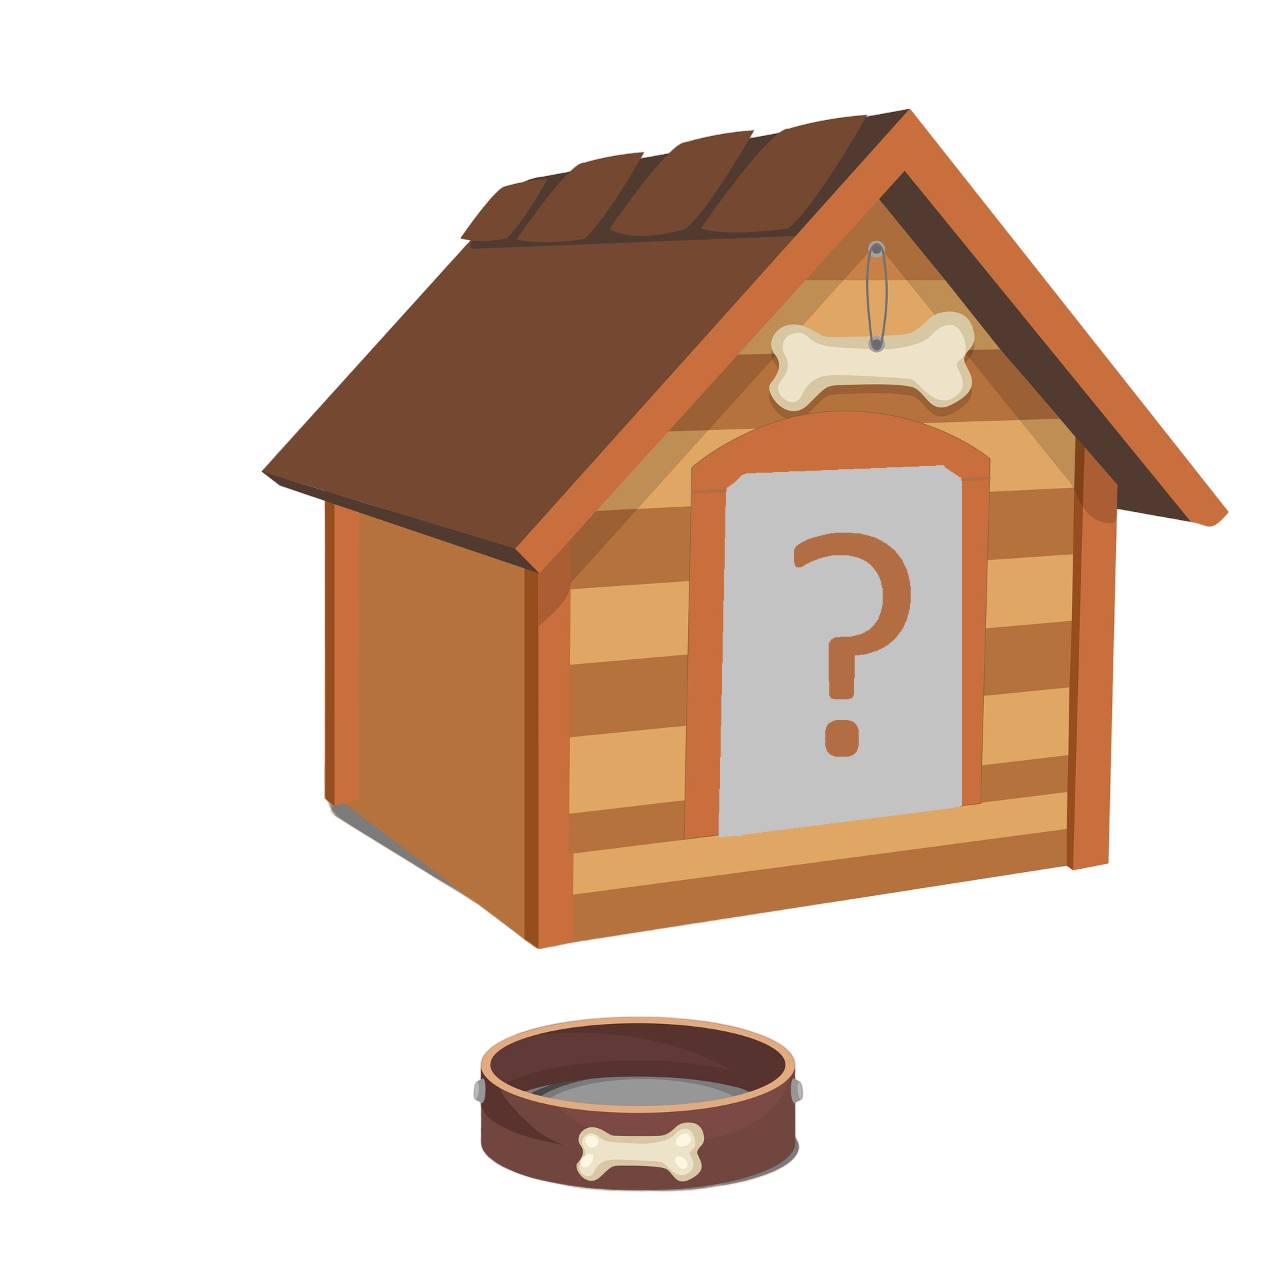
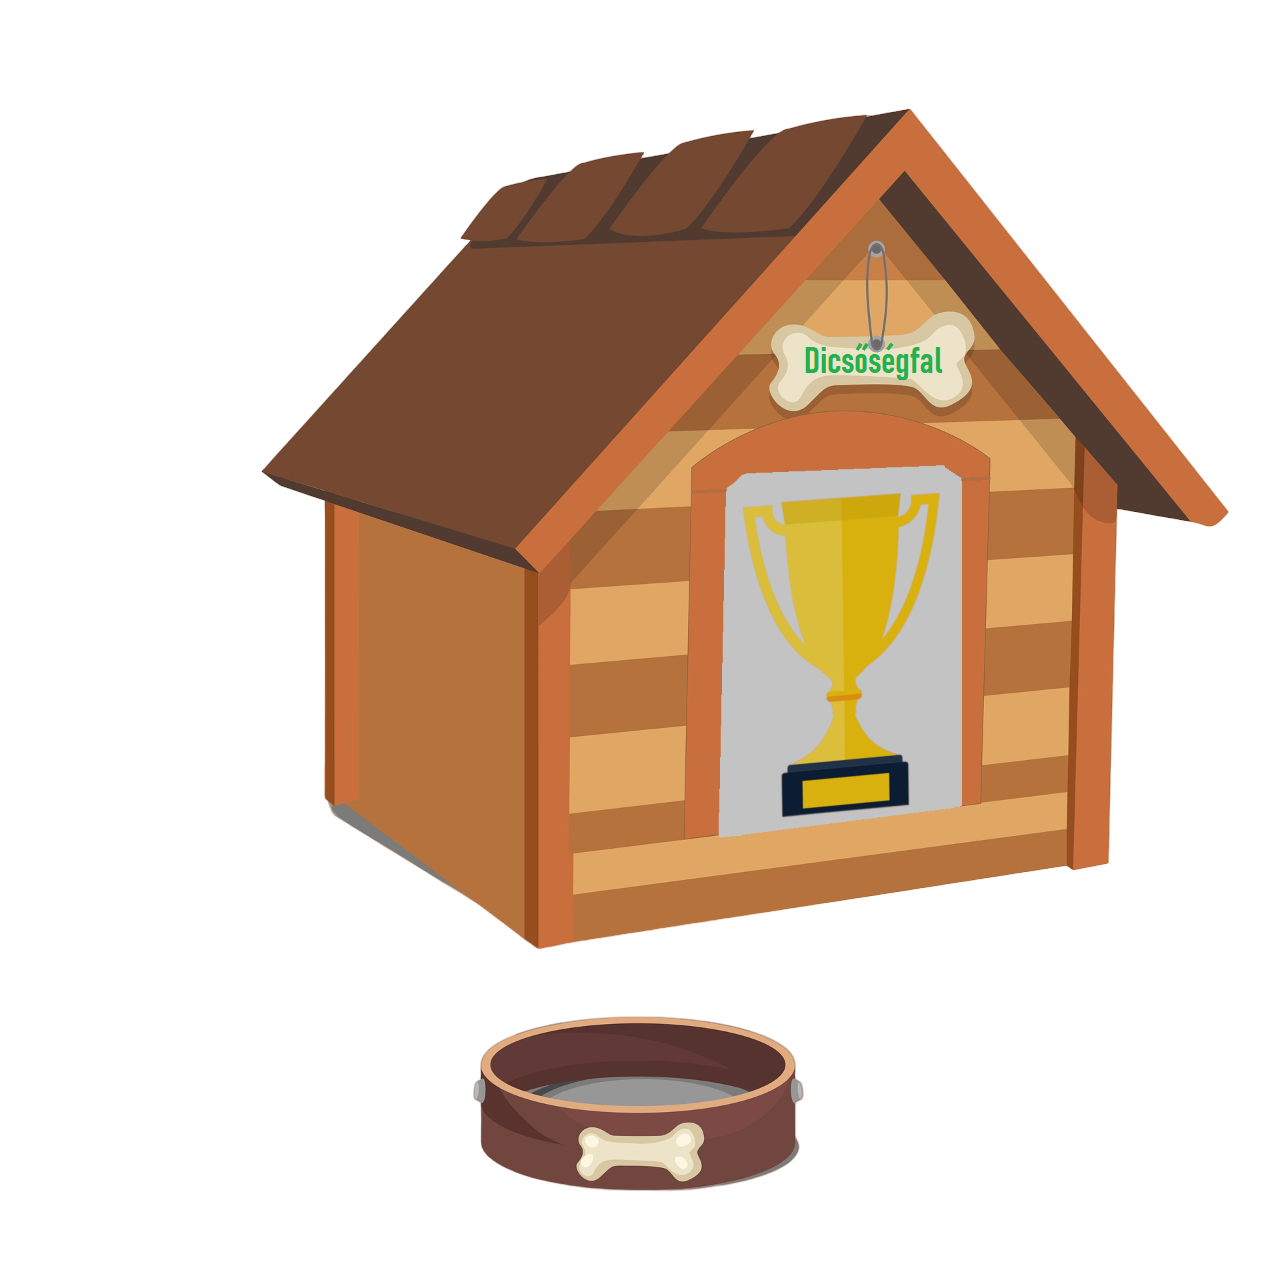
Making changes/updates

Changed region(s): [[0.5625, 0.375, 0.75, 0.6562], [0.625, 0.25, 0.75, 0.3125]]

diff --git a/Dogs/Dogs/Login_Register/Login.xaml b/Dogs/Dogs/Login_Register/Login.xaml
@@ -9,30 +9,30 @@
       Title="Login">
 	<Grid>
 		<Grid.RowDefinitions>
-				<RowDefinition Height="60*"/>
-				<RowDefinition Height="50*"/>
-				<RowDefinition Height="300*"/>
-				<RowDefinition Height="50*"/>
-			</Grid.RowDefinitions>
+			<RowDefinition Height="11*"/>
+			<RowDefinition Height="9*"/>
+			<RowDefinition Height="53*"/>
+			<RowDefinition Height="17*"/>
+		</Grid.RowDefinitions>
+		<Grid.ColumnDefinitions>
+			<ColumnDefinition Width="45*"/>
+			<ColumnDefinition Width="70*"/>
+			<ColumnDefinition Width="45*"/>
+		</Grid.ColumnDefinitions>
+		<Grid.Background>
+			<ImageBrush ImageSource="paws.jpg" Stretch="UniformToFill"/>
+		</Grid.Background>
+		<Viewbox Grid.Column="1" Grid.RowSpan="2" x:Name="textLogin">
+			<TextBlock>Bejelentkezés</TextBlock>
+		</Viewbox>
+		<Viewbox x:Name="errMsgBox" Grid.Row="1" Grid.ColumnSpan="3" Visibility="Collapsed">
+			<TextBlock x:Name="errorMsg" Foreground="Red" Background="White" Margin="0,3,0,3"></TextBlock>
+		</Viewbox>
+		<Grid Background="Bisque" Grid.Column="1" Grid.Row="2" Grid.RowSpan="2">
 			<Grid.ColumnDefinitions>
-				<ColumnDefinition Width="45*"/>
-				<ColumnDefinition Width="70*"/>
-				<ColumnDefinition Width="45*"/>
-			</Grid.ColumnDefinitions>
-			<Grid.Background>
-				<ImageBrush ImageSource="paws.jpg" Stretch="UniformToFill"/>
-			</Grid.Background>
-			<Viewbox Grid.Column="1">
-				<TextBlock>Bejelentkezés</TextBlock>
-			</Viewbox>
-			<Viewbox Grid.Row="1" Grid.ColumnSpan="3">
-			<TextBlock x:Name="errorMsg" Foreground="Red" Background="White" Margin="0,3,0,3">Add meg a bejelentkezési adataid.</TextBlock>
-			</Viewbox>
-		<Grid Background="Bisque" Grid.Column="1" Grid.Row="2">
-			<Grid.ColumnDefinitions>
-				<ColumnDefinition Width="30*"/>
-				<ColumnDefinition Width="40*"/>
-				<ColumnDefinition Width="30*"/>
+				<ColumnDefinition Width="25*"/>
+				<ColumnDefinition Width="24*"/>
+				<ColumnDefinition Width="21*"/>
 			</Grid.ColumnDefinitions>
 			<Grid.RowDefinitions>
 				<RowDefinition Height="80*"/>
@@ -44,10 +44,10 @@
 			</Viewbox>
 			<TextBox x:Name="username" Grid.Column="1" Grid.ColumnSpan="2" MaxHeight="40" MinHeight="30" FontSize="30" Margin="10,0,20,0"></TextBox>
 			<Viewbox Grid.Row="1">
-				<Label Padding="20">Jelszó:</Label>
+				<Label Padding="25">Jelszó:</Label>
 			</Viewbox>
 			<PasswordBox x:Name="password" Grid.Row="1" Grid.Column="1" Grid.ColumnSpan="2" MaxHeight="40" MinHeight="30" FontSize="30" Margin="10,0,20,0"></PasswordBox>
-			<Button x:Name="SignIn" Grid.Row="3" Grid.ColumnSpan="3" Margin="10" Click="SignIn_Click">
+			<Button x:Name="SignIn" Grid.Row="2" Grid.ColumnSpan="3" Margin="10,10,10,20" Click="SignIn_Click">
 				<Viewbox>
 					<TextBlock>Bejelentkezés</TextBlock>
 				</Viewbox>
@@ -58,10 +58,18 @@
 				</Button.Resources>
 			</Button>
 		</Grid>
-		<Button x:Name="ToRegister" Grid.Row="3" Grid.Column="1" Background="{x:Null}" BorderThickness="0" Margin="5" Click="ToRegister_Click">
+		<Button x:Name="ToRegister" Grid.Row="3" Grid.Column="2" Background="{x:Null}" BorderThickness="0" Margin="5,5,5,5" Click="ToRegister_Click">
 			<Viewbox>
-				<TextBlock FontWeight="Bold">Nincs fiókom, regisztrálok.</TextBlock>
+				<TextBlock>Regisztrál</TextBlock>
 			</Viewbox>
 		</Button>
+
+		<Button Grid.Row="3" x:Name="ToMain" Margin="20,0,20,0" Background="{x:Null}" BorderThickness="0">
+			<Viewbox>
+				<TextBlock>Főmenü</TextBlock>
+			</Viewbox>
+		</Button>
+
+
 	</Grid>
 </Page>

diff --git a/Dogs/Dogs/Game/GameMain.xaml b/Dogs/Dogs/Game/GameMain.xaml
@@ -4,6 +4,7 @@
       xmlns:mc="http://schemas.openxmlformats.org/markup-compatibility/2006" 
       xmlns:d="http://schemas.microsoft.com/expression/blend/2008" 
       xmlns:local="clr-namespace:Dogs.Game"
+	  xmlns:uc="clr-namespace:Dogs.MyBtn"
       mc:Ignorable="d" 
       d:DesignHeight="450" d:DesignWidth="800"
       Title="GameMain">
@@ -15,51 +16,22 @@
 		<Grid.RowDefinitions>
 			<RowDefinition Height="20*"/>
 			<RowDefinition Height="60*"/>
-			<RowDefinition Height="20*"/>
+			<RowDefinition Height="25*"/>
 		</Grid.RowDefinitions>
 		<Viewbox Grid.ColumnSpan="2">
 			<TextBlock Margin="10,0,10,0">Mit szeretnél játszani?</TextBlock>
 		</Viewbox>
 		<Button x:Name="ToMemory" Grid.Row="1" Background="{x:Null}" BorderThickness="0" Click="ToMemory_Click">
-			<Grid>
-				<Grid.RowDefinitions>
-					<RowDefinition Height="39*"/>
-					<RowDefinition Height="50*"/>
-					<RowDefinition Height="44*"/>
-				</Grid.RowDefinitions>
-				<Grid.ColumnDefinitions>
-					<ColumnDefinition Width="59*"/>
-					<ColumnDefinition Width="70*"/>
-					<ColumnDefinition Width="69*"/>
-				</Grid.ColumnDefinitions>
-				<Image Source="bone.png" Stretch="Fill" Grid.ColumnSpan="3" Grid.RowSpan="3"/>
-				<Viewbox Grid.Column="1" Grid.Row="1">
-					<TextBlock Background="Transparent">Memória teszt</TextBlock>
-				</Viewbox>
-			</Grid>
+			<uc:BoneButton TextVal="Memória teszt"/>
 		</Button>
 		<Button x:Name="ToQuiz" Grid.Row="1" Grid.Column="1" Background="{x:Null}" BorderThickness="0" Click="ToQuiz_Click">
-			<Grid>
-				<Grid.RowDefinitions>
-					<RowDefinition Height="39*"/>
-					<RowDefinition Height="50*"/>
-					<RowDefinition Height="44*"/>
-				</Grid.RowDefinitions>
-				<Grid.ColumnDefinitions>
-					<ColumnDefinition Width="59*"/>
-					<ColumnDefinition Width="70*"/>
-					<ColumnDefinition Width="69*"/>
-				</Grid.ColumnDefinitions>
-				<Image Source="bone.png" Stretch="Fill" Grid.ColumnSpan="3" Grid.RowSpan="3"/>
-				<Viewbox Grid.Column="1" Grid.Row="1">
-					<TextBlock Background="Transparent">Quiz kérdések</TextBlock>
-				</Viewbox>
-			</Grid>
+			<uc:BoneButton TextVal="Quiz kérdések"/>
 		</Button>
-		<Button x:Name="BackToLearn" Grid.Row="2"  Grid.ColumnSpan="2" Background="{x:Null}" BorderThickness="0" Click="BackToLearn_Click">
-			<Viewbox>
-				<TextBlock Margin="10,0,10,0">Visszalépés a tanuló oldalra</TextBlock>
-			</Viewbox>
+		<Button x:Name="BackToLearn" Grid.Row="2" Background="{x:Null}" BorderThickness="0" Click="BackToLearn_Click">
+			<uc:BoneButton TextVal="Vissza" Margin="100,0,100,0"/>
+		</Button>
+		<Button x:Name="BackToMain" Grid.Row="2" Grid.Column="1" Background="{x:Null}" BorderThickness="0" Click="BackToMain_Click">
+			<uc:BoneButton TextVal="Főmenü" Margin="100,0,100,0"/>
 		</Button>
 	</Grid>
 </Page>

diff --git a/Dogs/Dogs/Login_Register/Register.xaml b/Dogs/Dogs/Login_Register/Register.xaml
@@ -10,10 +10,10 @@
 
 	<Grid x:Name="regGrid">
 		<Grid.RowDefinitions>
-			<RowDefinition Height="60*"/>
-			<RowDefinition Height="50*"/>
-			<RowDefinition Height="300*"/>
-			<RowDefinition Height="50*"/>
+			<RowDefinition Height="59*"/>
+			<RowDefinition Height="49*"/>
+			<RowDefinition Height="272*"/>
+			<RowDefinition Height="70*"/>
 		</Grid.RowDefinitions>
 		<Grid.ColumnDefinitions>
 			<ColumnDefinition Width="45*"/>
@@ -29,7 +29,7 @@
 		<Viewbox Grid.Row="1" Grid.ColumnSpan="3">
 			<TextBlock x:Name="errorMsg" Foreground="Red" Background="White" Margin="0,3,0,3" MouseEnter="errorMsg_MouseEnter" MouseLeave="errorMsg_MouseLeave">A megfelelő kitöltés szabályainak megismeréséhez mutass ide.</TextBlock>
 		</Viewbox>
-		<Viewbox Grid.Row="2" Grid.Column="2" VerticalAlignment="Top" Margin="5,0,5,0">
+		<Viewbox Grid.Row="2" Grid.Column="2" VerticalAlignment="Top" Margin="5,0,5,0" Height="120">
 			<Border BorderThickness="1" BorderBrush="Black" Background="White" x:Name="help"  Visibility="Hidden" CornerRadius="10">
 				<TextBlock Padding="10">
 					-Minden mező megadása kötelező.<LineBreak/>
@@ -43,7 +43,7 @@
 				</TextBlock>
 			</Border>
 		</Viewbox>
-		<Grid Background="Bisque" Grid.Column="1" Grid.Row="2">
+		<Grid Background="Bisque" Grid.Column="1" Grid.Row="2" Grid.RowSpan="2">
 			<Grid.ColumnDefinitions>
 				<ColumnDefinition Width="30*"/>
 				<ColumnDefinition Width="40*"/>
@@ -78,9 +78,14 @@
 				</Button.Resources>
 			</Button>
 		</Grid>
-		<Button x:Name="ToLogin" Grid.Row="3" Grid.Column="1" Background="{x:Null}" BorderThickness="0" Margin="5" Click="ToLogin_Click">
+		<Button x:Name="ToLogin" Grid.Row="3" Grid.Column="2" Background="{x:Null}" BorderThickness="0" Margin="5,5,5,5" Click="ToLogin_Click">
 			<Viewbox>
-				<TextBlock FontWeight="Bold">Van fiókom, bejelentkezem.</TextBlock>
+				<TextBlock FontWeight="Bold">Bejelentkezés</TextBlock>
+			</Viewbox>
+		</Button>
+		<Button x:Name="ToMain" Grid.Row="3" Background="{x:Null}" BorderThickness="0" Margin="5,5,5,5" Click="ToLogin_Click">
+			<Viewbox>
+				<TextBlock FontWeight="Bold">Vissza</TextBlock>
 			</Viewbox>
 		</Button>
 	</Grid>

diff --git a/Dogs/Dogs/WallOfGlory/WallOfGlory.xaml b/Dogs/Dogs/WallOfGlory/WallOfGlory.xaml
@@ -25,7 +25,7 @@
 		</Viewbox>
 		<Button Grid.Column="2" x:Name="Raffle" Click="Raffle_Click" Margin="10">
 			<Viewbox>
-				<TextBlock>Sorsolás 100 pontért</TextBlock>
+				<TextBlock>Sorsolás 100 tallérért</TextBlock>
 			</Viewbox>
 			<Button.Resources>
 				<Style TargetType="Border">
@@ -33,12 +33,19 @@
 				</Style>
 			</Button.Resources>
 		</Button>
-		<Viewbox Grid.Column="3">
-			<TextBlock x:Name="points" Margin="5,0,5,0">Pontjaid: 0 </TextBlock>
-		</Viewbox>
+		<Grid Grid.Column="3">
+			<Grid.ColumnDefinitions>
+				<ColumnDefinition Width="10*"/>
+				<ColumnDefinition Width="20*"/>
+			</Grid.ColumnDefinitions>
+			<Image Source="coin.png"/>
+			<Viewbox Grid.Column="1">
+				<TextBlock x:Name="points" Margin="5,0,5,0">Tallér: 0</TextBlock>
+			</Viewbox>
+		</Grid>
 		<Button x:Name="BackToLearn" Grid.Row="1" Background="{x:Null}" BorderThickness="0" Padding="10" Click="BackToLearn_Click">
 			<Viewbox>
-				<TextBlock TextAlignment="Center">Tanuló<LineBreak/>oldalra vissza</TextBlock>
+				<TextBlock TextAlignment="Center">Vissza a <LineBreak/> kutyákhoz</TextBlock>
 			</Viewbox>
 		</Button>
 		<Image Uid="0" Grid.Row="1" Grid.Column="1" Source="images/GY_agar.jpg" Visibility="Hidden" x:Name="agar" Stretch="Fill"/>

diff --git a/Dogs/Dogs/MyBtn/BoneButton.xaml b/Dogs/Dogs/MyBtn/BoneButton.xaml
@@ -1,0 +1,25 @@
+<UserControl x:Class="Dogs.MyBtn.BoneButton"
+             xmlns="http://schemas.microsoft.com/winfx/2006/xaml/presentation"
+             xmlns:x="http://schemas.microsoft.com/winfx/2006/xaml"
+             xmlns:mc="http://schemas.openxmlformats.org/markup-compatibility/2006" 
+             xmlns:d="http://schemas.microsoft.com/expression/blend/2008" 
+             xmlns:local="clr-namespace:Dogs.MyBtn"
+             mc:Ignorable="d" 
+             d:DesignHeight="450" d:DesignWidth="800">
+	<Grid>
+		<Grid.RowDefinitions>
+			<RowDefinition Height="39*"/>
+			<RowDefinition Height="50*"/>
+			<RowDefinition Height="44*"/>
+		</Grid.RowDefinitions>
+		<Grid.ColumnDefinitions>
+			<ColumnDefinition Width="59*"/>
+			<ColumnDefinition Width="70*"/>
+			<ColumnDefinition Width="69*"/>
+		</Grid.ColumnDefinitions>
+		<Image Source="bone.png" Stretch="Fill" Grid.ColumnSpan="3" Grid.RowSpan="3"/>
+		<Viewbox Grid.Column="1" Grid.Row="1">
+			<TextBlock Background="Transparent" Text="{Binding TextVal}"></TextBlock>
+		</Viewbox>
+	</Grid>
+</UserControl>

diff --git a/Dogs/Dogs/Notes/Notes.xaml b/Dogs/Dogs/Notes/Notes.xaml
@@ -36,7 +36,7 @@
 		</Viewbox>
 		<Button x:Name="BackToLearning" Grid.Row="3" Grid.Column="1" Background="{x:Null}" BorderThickness="0" Margin="10,10,20,10" Click="BackToLearning_Click">
 			<Viewbox>
-				<TextBlock>Tanuló <LineBreak/> oldalra</TextBlock>
+				<TextBlock TextAlignment="Center">Vissza a <LineBreak/> kutyákhoz</TextBlock>
 			</Viewbox>
 		</Button>
 		<Button x:Name="ToGame" Grid.Row="5" Grid.Column="1" Background="{x:Null}" BorderThickness="0" Margin="20,20,20,20" Click="ToGame_Click">

diff --git a/Dogs/Dogs/Learn/Learn.xaml b/Dogs/Dogs/Learn/Learn.xaml
@@ -26,6 +26,14 @@
 			<ImageBrush ImageSource="learn_img/park.jpg" Stretch="Fill"/>
 		</Grid.Background>
 
+		<Button x:Name="ToMain" Background="{x:Null}" BorderThickness="0" Grid.ColumnSpan="2" Grid.Column="2" Click="ToMain_Click">
+			<Button.Template>
+				<ControlTemplate>
+					<Image Source="learn_img/rainbow.png"></Image>
+				</ControlTemplate>
+			</Button.Template>
+		</Button>
+		
 		<Button x:Name="Komondor" Grid.Row="2" Click="Komondor_Click">
 			<Button.Template>
 				<ControlTemplate>

diff --git a/Dogs/Dogs/Game/Quiz.xaml b/Dogs/Dogs/Game/Quiz.xaml
@@ -23,7 +23,7 @@
 			<RowDefinition Height="20*"></RowDefinition>
 		</Grid.RowDefinitions>
 		<Viewbox>
-			<TextBlock Margin="2" Background="Beige" Opacity="0.8" x:Name="scoreText">Megszereztett pontok: 0</TextBlock>
+			<TextBlock Margin="2" Background="Beige" Opacity="0.8" x:Name="scoreText">Megszerzett tallérok: 0</TextBlock>
 		</Viewbox>
 		<Viewbox Grid.ColumnSpan="2" VerticalAlignment="Center" Grid.Row="1">
 			<TextBlock  Background="Beige" Opacity="0.8" Margin="3,0,3,0" x:Name="question">

diff --git a/Dogs/Dogs/Main/MainWindow.xaml b/Dogs/Dogs/Main/MainWindow.xaml
@@ -20,7 +20,7 @@
 				<ColumnDefinition/>
 				<ColumnDefinition Width="3*"/>
 			</Grid.ColumnDefinitions>
-			<Button x:Name="Reg" Grid.Row="1" Background="{x:Null}" BorderThickness="0" Padding="5" Click="Reg_Click">
+			<Button x:Name="Log" Grid.Row="1" Background="{x:Null}" BorderThickness="0" Padding="5" Click="Log_Click">
 				<Viewbox>
 					<TextBlock>Bejelentkezés</TextBlock>
 				</Viewbox>

diff --git a/Dogs/Dogs/Game/Memory.xaml b/Dogs/Dogs/Game/Memory.xaml
@@ -49,7 +49,7 @@
 			</Button>
 			<Button x:Name="ToLearn" Grid.Row="3" Background="{x:Null}" BorderThickness="0" Margin="10" Click="ToLearn_Click">
 				<Viewbox>
-					<TextBlock FontWeight="Bold">Tanulóoldalra vissza</TextBlock>
+					<TextBlock TextAlignment="Center">Vissza a <LineBreak/> kutyaválasztáshoz</TextBlock>
 				</Viewbox>
 			</Button>
 		</Grid>

diff --git a/Dogs/Dogs/Login_Register/Login.xaml.cs b/Dogs/Dogs/Login_Register/Login.xaml.cs
@@ -26,17 +26,23 @@ namespace Dogs.Login_Register
             InitializeComponent();
         }
 
+        void ErrMsgShow(string errText) {
+            textLogin.SetValue(Grid.RowSpanProperty,1);
+            errMsgBox.Visibility = Visibility.Visible;
+            errorMsg.Text = errText;
+        }
+
         readonly Page learn = new Learn.Learn();
         private void SignIn_Click(object sender, RoutedEventArgs e)
         {
             if (username.Text.Length == 0)
             {
-                errorMsg.Text = "Nem adtál meg felhasználónevet!";
+                ErrMsgShow("Nem adtál meg felhasználónevet!");
                 username.Focus();
             }
             else if (password.Password.Length == 0)
             {
-                errorMsg.Text = "Nem adtál meg jelszót!";
+                ErrMsgShow("Nem adtál meg jelszót!");
             }
             else {
                 PasswordHasher passwordHasher = new PasswordHasher();
@@ -62,12 +68,12 @@ namespace Dogs.Login_Register
                         }
                         else
                         {
-                            errorMsg.Text = "Nem megfelelő felhasználónév vagy jelszó!";
+                            ErrMsgShow("Nem megfelelő felhasználónév vagy jelszó!");
                         }
                     }
                 }
                 else {
-                    errorMsg.Text = "Ez a felhasználó nem létezik az adatbázisban!";
+                    ErrMsgShow("Ez a felhasználó nem létezik az adatbázisban!");
                 }
             }
         }

diff --git a/Dogs/Dogs/MyBtn/BoneButton.xaml.cs b/Dogs/Dogs/MyBtn/BoneButton.xaml.cs
@@ -13,21 +13,19 @@ using System.Windows.Media.Imaging;
 using System.Windows.Navigation;
 using System.Windows.Shapes;
 
-namespace Dogs.Description
+namespace Dogs.MyBtn
 {
     /// <summary>
-    /// Interaction logic for Description.xaml
+    /// Interaction logic for BoneButton.xaml
     /// </summary>
-    public partial class Description : Page
+    public partial class BoneButton : UserControl
     {
-        public Description()
+        public string TextVal { get; set; }
+        public BoneButton()
         {
             InitializeComponent();
-        }
-
-        private void BackToMain_Click(object sender, RoutedEventArgs e)
-        {
-            Application.Current.MainWindow.Content = ((MainWindow)Application.Current.MainWindow).Main;
+            DataContext = this;
+            TextVal = "";
         }
     }
 }
